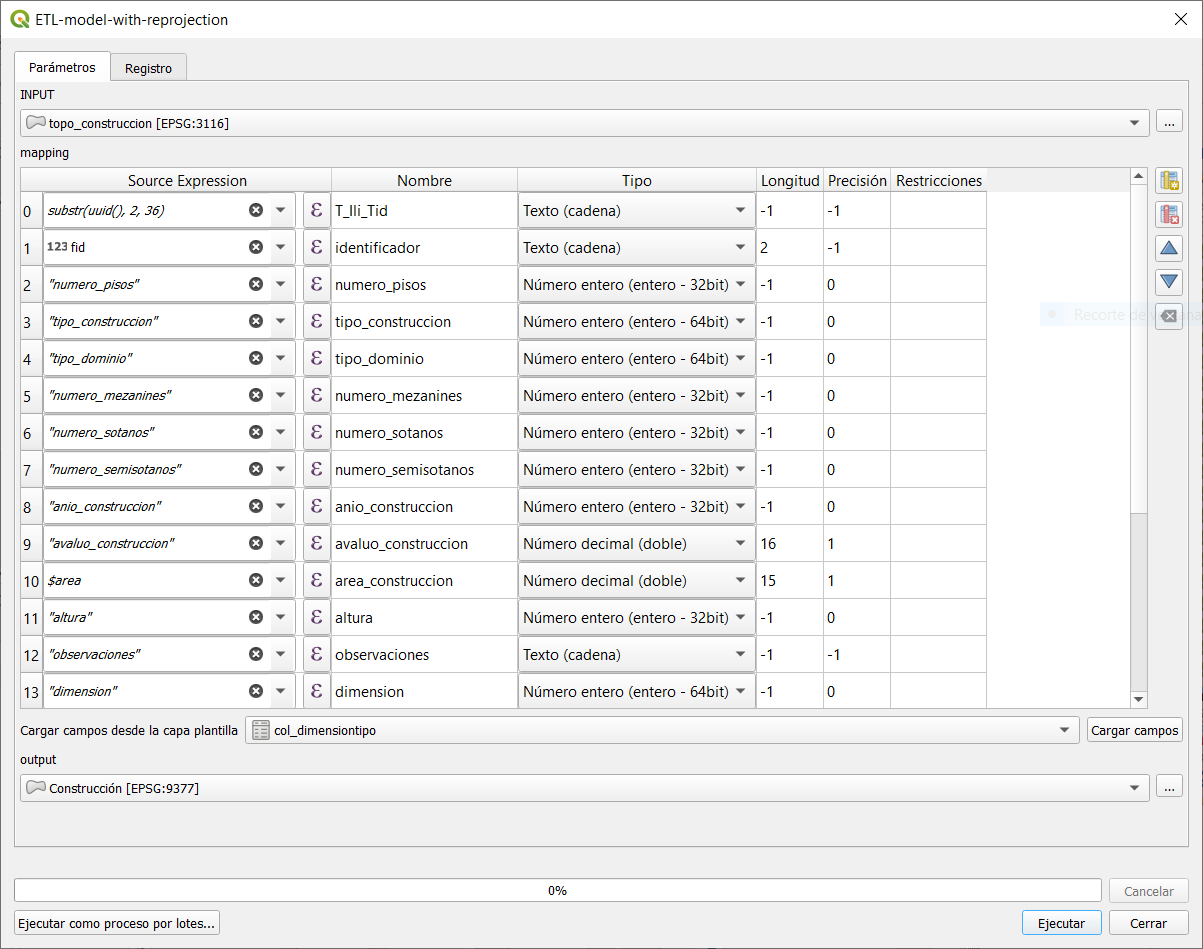
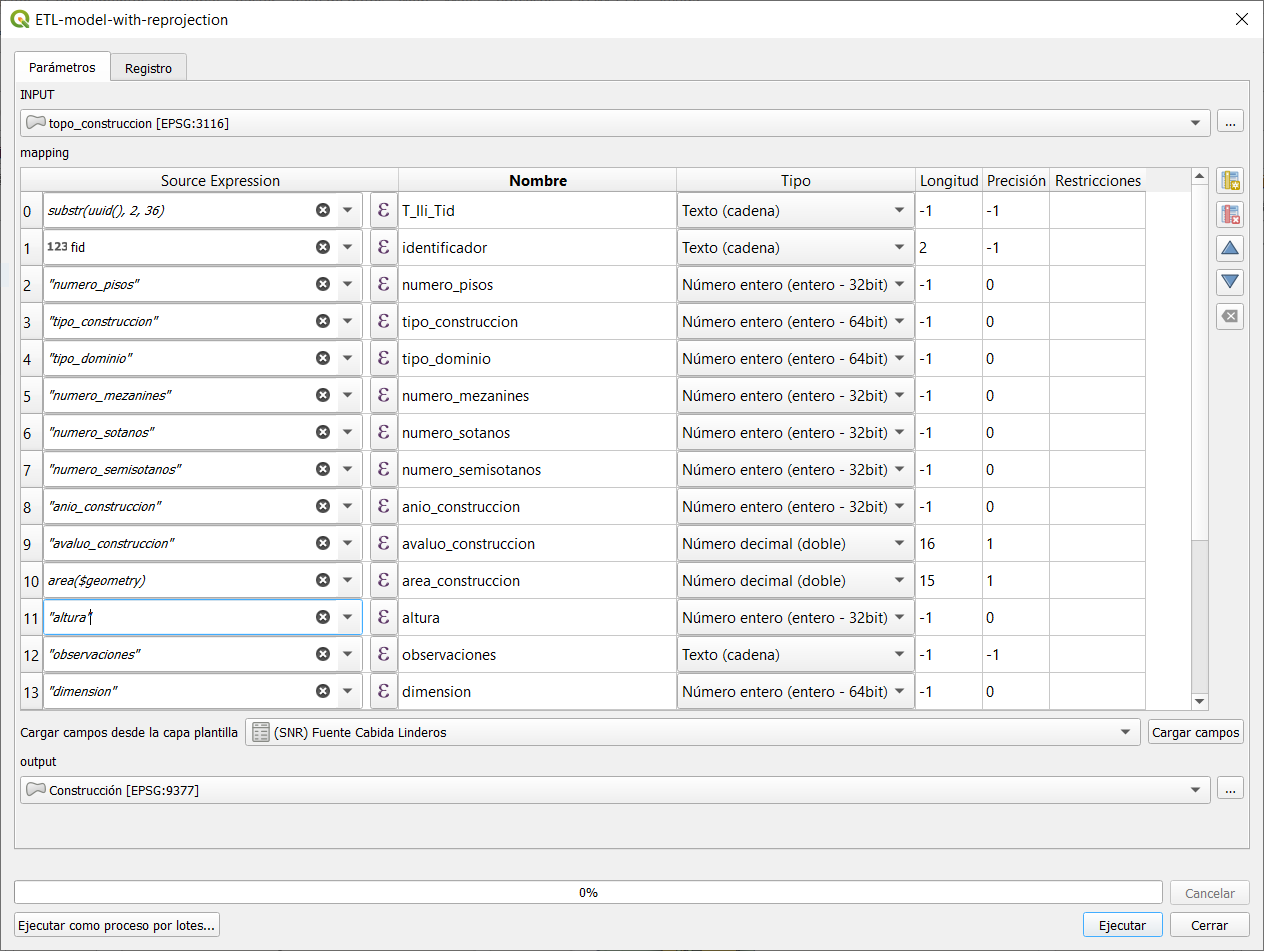
Correcciones solicitadas para mejorar la comprensión del desarrollo del tutorial

diff --git a/source/tutorial/captura_y_estructuracion_de_datos.md b/source/tutorial/captura_y_estructuracion_de_datos.md
@@ -11,7 +11,7 @@ La primera parte de tutorial corresponde a la descarga e importación de datos e
 
 ### Paso 1: Conexión a la base de datos 
 
-Para empezar, se debe definir la conexión a la base de datos. Para realizar este proceso, dirígete al panel "**Navegador**" ubicado a la izquierda de la interfaz de QGIS, en el árbol que se despliega ubica la sección **Geopackage**, haz clic derecho sobre esta sección y selecciona la opción de **Conexión nueva**. Una vez se despliega el panel de navegación, deberás ubicar la base de datos **taller_asistente.gpkg** (disponible en los datos del tutorial) y dar clic en el botón **Abrir** para configurar la conexión a la base de datos.
+Para empezar, se debe definir la conexión a la base de datos. Para realizar este proceso, dirígete al panel "**Navegador**" ubicado a la izquierda de la interfaz de QGIS, en el árbol que se despliega ubica la sección **GeoPackage**, haz clic derecho sobre esta sección y selecciona la opción de **Conexión nueva**. Una vez se despliega el panel de navegación, deberás ubicar la base de datos **taller_asistente.gpkg** (disponible en los datos del tutorial) y dar clic en el botón **Abrir** para configurar la conexión a la base de datos.
 
 <div class="note">
 <p class="admonition-title">IMPORTANTE</p>
@@ -158,7 +158,7 @@ Al realizar el paso 2 se desplegará un cuadro de diálogo donde se deberá sele
 
 #### Paso 4: Mapeo de campos punto levantamiento  
 
-Se desplegará un cuadro de diálogo para el mapeo de campos de la información. Se recomienda tener en cuenta el [paso 4](#paso-4-dialogo-del-mapeo-de-campos-para-punto-lindero) de la sección de punto de lindero. Para este caso, debemos asignar los valores de la siguiente manera:
+Se recomienda tener en cuenta el [paso 5](#paso-5-definicion-del-mapeo-de-campos-para-punto-lindero) de la sección de punto de lindero. Para este caso, debemos asignar los valores de la siguiente manera:
 
 | Atributo                 | Expresión                                                    |
 | ------------------------ | ------------------------------------------------------------ |
@@ -211,7 +211,7 @@ Al realizar el paso 2 se desplegará un cuadro de diálogo donde se deberá sele
 
 #### Paso 5: Mapeo de campos punto control  
 
-Se desplegará un cuadro de diálogo para el mapeo de campos de la información. Se recomienda tener en cuenta el [paso 4](#paso-4-dialogo-del-mapeo-de-campos-para-punto-lindero) de la sección de punto de lindero. Para este caso, debes asignar las siguientes expresiones:
+Se recomienda tener en cuenta el [paso 5](#paso-5-definicion-del-mapeo-de-campos-para-punto-lindero) de la sección de punto de lindero. Para este caso, debemos asignar los valores de la siguiente manera:
 
 | Atributo               | Expresión                                                    |
 | ---------------------- | ------------------------------------------------------------ |
@@ -251,7 +251,7 @@ En la barra de herramientas del Asistente LADM-COL, presiona el botón ``Crear o
 
 #### Paso 3: Mapeo de campos lindero 
 
-Se desplegará un cuadro de diálogo para el mapeo de campos de la información. Se recomienda tener en cuenta los pasos desarrollados en el [paso 4](#paso-4-dialogo-del-mapeo-de-campos-para-punto-lindero) de la sección de punto de lindero. Para este caso, debemos asignar la siguiente expresión:
+Se recomienda tener en cuenta el [paso 5](#paso-5-definicion-del-mapeo-de-campos-para-punto-lindero) de la sección de punto de lindero. Para este caso, debemos asignar los valores de la siguiente manera:
 
 | Atributo                 | Expresión                                                    |
 | ------------------------ | ------------------------------------------------------------ |
@@ -319,19 +319,18 @@ Dirigete al botón `Crear objetos de Levantamiento` (ubicado en la barra de herr
 Se desplegará una ventana en la cual se te consulta *¿Cómo te gustaría crear terrenos?*, allí cuentas con dos opciones: *Seleccionando linderos existentes* ó *Desde otra capa de QGIS (definiendo un mapeo de campos)*.
 
 En este caso, se procede a elegir la opción **Seleccionando linderos existentes** y luego das clic en el botón **Siguiente**. En el cuadro de diálogo que se despliega, encuentras tres opciones que corresponden con: 
-<ol>
-  <li><b>1.</b> Seleccionar lindero(s) en el mapa.</li>
-  <li><b>2.</b> Seleccionar lindero(s) con base en una expresión.</li>
-  <li><b>3.</b> Seleccionar todos los linderos.</p></li>
-</ol>
 
-Posteriormente, das clic en la opción *"Seleccionar todos los linderos"* y luego en el botón `Finalizar`.
+1. Seleccionar lindero(s) en el mapa.
+2. Seleccionar lindero(s) con base en una expresión.
+3. Seleccionar todos los linderos.
+
+Posteriormente, das clic en el boton `Seleccionar todos los linderos` y luego en el botón `Finalizar`.
 
 <a class="" data-lightbox="Paso 2: Selección de linderos" href="../_static/tutorial/captura_y_estructura_de_datos/cap5undespaciales2.gif" title="Paso 2: Selección de linderos" data-title="Paso 2: Selección de linderos"><img src="../_static/tutorial/captura_y_estructura_de_datos/cap5undespaciales2.gif" class="align-center" width="800px" alt="Paso 2: Selección de linderos"/></a>
 
-#### Paso 3: Cálculo área del terreno
+#### Paso 3: Cálculo del área del terreno
 
-Una vez que los terrenos han sido creados, es necesario calcular o en su defecto actualizar el área del terreno. Para ello, debes dar clic en el botón `Abrir tabla de atributos` ubicado en la parte superior de la barra de tareas. Posteriormente, elijes en el menú desplegable del lado izquierdo el atributo **Área de terreno [m2]** y das clic en el botón *Generar expresión* ![Botón generar expresion](../_static/tutorial/captura_y_estructura_de_datos/ICOdialogodeexpressiones.png), de esta forma se despliega la ventana de *"Diálogo de expresiones"*, en la cual debes emplear la función *\$area*. Luego, basta con dar clic en el botón `Aceptar`. 
+Una vez que los terrenos han sido creados, es necesario calcular o en su defecto actualizar el área del terreno. Para ello, debes dar clic en el botón `Abrir tabla de atributos` ubicado en la barra de herramientas. Posteriormente, elijes en el menú desplegable del lado izquierdo el atributo **Área de terreno [m2]** y das clic en el botón *Generar expresión* ![Botón generar expresion](../_static/tutorial/captura_y_estructura_de_datos/ICOdialogodeexpressiones.png), de esta forma se despliega la ventana de *"Diálogo de expresiones"*, en la cual debes emplear la función *area($geometry)*. Luego, basta con dar clic en el botón `Aceptar`. 
 
 Finalmente, al cerrar la ventana emergente debes dar clic en el botón **Actualizar todo**, de inmediato podrás ver que en la columna **Área de terreno** se asignaron los valores de área correspondientes. Para guardar dichos cambios presiona el botón *Guardar edición* ![Botón guardar edición](../_static/tutorial/captura_y_estructura_de_datos/ICOguardarcambios.png), luego, puedes cerrar la ventana.
 
@@ -341,13 +340,13 @@ Finalmente, al cerrar la ventana emergente debes dar clic en el botón **Actuali
 
 #### Paso 1: Creación de la relación
 
-El diligenciamiento de esta relación se realiza con la herramienta ``Llenar más CCL y menos`` ubicada en la barra de herramientas. Al hacer clic en este botón, emergerá un cuadro de diálogo preguntandóte si deseas ejecutar esta acción para todos los terrenos identificados en la base de datos. En este caso, se procede a dar clic en el botón ``Sí``.
+El diligenciamiento de esta relación se realiza con la herramienta ``Llenar más CCL y menos`` ubicada en la barra de herramientas. Al hacer clic en este botón, emergerá un cuadro de diálogo en el que se te pregunta si deseas ejecutar esta acción para todos los terrenos identificados en la base de datos. En este caso, se procede a dar clic en el botón ``Sí``.
 
 <a class="" data-lightbox="Paso 1" href="../_static/tutorial/captura_y_estructura_de_datos/cap5undespaciales8.gif" title="Paso 1" data-title="Paso 1"><img src="../_static/tutorial/captura_y_estructura_de_datos/cap5undespaciales8.gif" class="align-center" width="800px" alt="Paso 1"/></a>
 
 #### Paso 2: Verificación de la relación
 
-Para verificar el estado de las relaciones creadas previamente, basta con abrir la tabla de atributos de la tabla **Col_masccl**, y en la columna *col_mas* corroborar si los campos están diligenciados correctamente. 
+Para verificar el estado de las relaciones creadas previamente, basta con abrir la tabla de atributos de la tabla **col_masccl**, y en la columna *ccl_mas* corroborar si los campos están diligenciados correctamente. 
 
 <a class="" data-lightbox="Resultado" href="../_static/tutorial/captura_y_estructura_de_datos/cap5undespaciales10.gif" title="Resultado" data-title="Resultado"><img src="../_static/tutorial/captura_y_estructura_de_datos/cap5undespaciales10.gif" class="align-center" width="800px" alt="Resultado"/></a>
 
@@ -355,11 +354,11 @@ Para verificar el estado de las relaciones creadas previamente, basta con abrir 
 
 #### Paso 1: Cargar insumo construcción
 
-En primera medida, debes cargar a tu espacio de trabajo la capa **topo_construcciones**, para esto, debes dirigirte al **Navegador**, seleccionar **geopackage -> taller_asistente.gpkg** y arrastrar la capa **topo_construcciones** a la interfaz, para que esta seá cargada. 
+En primera medida, debes cargar a tu espacio de trabajo la capa **topo_construcciones**, para esto, debes dirigirte al **Navegador**, seleccionar **GeoPackage -> taller_asistente.gpkg** y arrastrar la capa **topo_construcciones** al mapa, para que ésta sea cargada. 
 
 <a class="" data-lightbox="Paso 1: Cargar insumo construcción" href="../_static/tutorial/captura_y_estructura_de_datos/cap5undespaciales11a.gif  " title="Paso 1: Cargar insumo construcción" data-title="Paso 1: Cargar insumo construcción"><img src="../_static/tutorial/captura_y_estructura_de_datos/cap5undespaciales11a.gif" class="align-center" width="800px" alt="Paso 1: Cargar insumo construcción"/></a>
 
-#### Paso 2: Creación de construcción
+#### Paso 2: Creación de las construcciones
 
 Al desplegar el menú del botón `Crear objetos de Levantamiento` (ubicado en la barra de herramientas) debes seleccionar la opción **Crear Construcción**. Esta acción abrirá una ventana en la cual se te consulta *¿Cómo te gustaría crear construcciones?*, para este caso selecciona la opcion *Desde otra capa de QGIS (definiendo un mapeo de campos)*.
 
@@ -369,27 +368,27 @@ En este caso, harás uso de la información registrada en la capa **topo_constru
 
 #### Paso 3: Mapeo de campos
 
-De inmediato, se desplegará la ventana de mapeo de campos, en la cual debes realizar las modificaciones correspondientes hasta obtener un muestreo de campos como el de la siguiente imagen:
+De inmediato, se desplegará la ventana de mapeo de campos, en la cual debes realizar las modificaciones correspondientes hasta obtener un mapeo de campos como el de la siguiente imagen:
 
 <a class="" data-lightbox="Paso 3: Mapeo de campos" href="../_static/tutorial/captura_y_estructura_de_datos/cap5undespaciales13.png" title="Paso 3: Mapeo de campos" data-title="Paso 3: Mapeo de campos"><img src="../_static/tutorial/captura_y_estructura_de_datos/cap5undespaciales13.png" class="align-center" width="800px" alt="Paso 3: Mapeo de campos"/></a> 
 
-Se recomienda tener en cuenta los pasos desarrollados en el [paso 4](#paso-4-mapeo-de-campos-punto-lindero) de la sección de punto de lindero, considerando que:   
+Se recomienda tener en cuenta el [paso 5](#paso-5-definicion-del-mapeo-de-campos-para-punto-lindero) de la sección de punto de lindero. Para este caso, debemos asignar los valores de la siguiente manera:
 
-| Atributo                 | Expresión    |
-| ------------------------ | ------------ |
-| identificador            | $id          |
-| numero_pisos             | num_pisos    |
-| area_construccion        | $area        |
+| Atributo                 | Expresión              |
+| ------------------------ | ---------------------- |
+| identificador            | $id                    |
+| numero_pisos             | num_pisos              |
+| area_construccion        | area($geometry)        |
 
 <div class="warning">
 <p class="admonition-title">ADVERTENCIA</p>
 <p>Para el caso de <b>identificador</b>, se utiliza la expresión <i>$id</i> ya que los datos iniciales no cuentan con información para este campo.</p>
-<p>Para el caso de <b>area_construccion</b>, se utiliza la expresión <i>$area</i> ya que los datos iniciales no cuentan con información para este campo.</p>
+<p>Para el caso de <b>area_construccion</b>, se utiliza la expresión <i>area($geometry)</i> ya que los datos iniciales no cuentan con información para este campo.</p>
 </div>
 
-Después de completar dichas modificaciones, puedes emplear la acción del botón ``Ejecutar``, y verificar el mensaje del proceso, luego, puedes **Cerrar** la ventana.
+Después de completar dichas modificaciones, haz clic en el botón ``Ejecutar``. Cuando el proceso termine, puedes verificar los mensajes de la pestaña Registro y posteriormente cerrar la ventana.
 
-### Unidades De Construcción
+### Unidades de Construcción
 
 #### Paso 1: Identificación de la construcción
 
@@ -397,9 +396,9 @@ Para iniciar con el proceso de crear las unidades de construcción se debe emple
 
 <a class="" data-lightbox="Paso 1: Identificación de la construcción" href="../_static/tutorial/captura_y_estructura_de_datos/cap5undespaciales15.gif" title="Paso 1: Identificación de la construcción" data-title="Paso 1: Identificación de la construcción"><img src="../_static/tutorial/captura_y_estructura_de_datos/cap5undespaciales15.gif" class="align-center" width="800px" alt="Paso 1: Identificación de la construcción"/></a>
 
-#### Paso 2: Creación de unidad de construcción
+#### Paso 2: Creación de unidades de construcción
 
-Después de tener los *t_id* se procede con el proceso de creación de las *Unidades de construcción*, para ello debes dirigirte a **LADM-COL –> Captura Y Estructuración De Datos –> Levantamiento Catastral –> Unidad Espacial –> Crear Unidad De Construcción**
+Después de identificar el t_id de la Construcción, se procede a crear las Unidades de construcción. Para ello debes dirigirte a **LADM-COL –> Captura Y Estructuración De Datos –> Levantamiento Catastral –> Unidad Espacial –> Crear Unidad De Construcción**
 
 De inmediato se desplegará un cuadro de diálogo, en el cual se te consulta como generar la unidad de construcción, puedes elegir entre cargar una capa vectorial o digitalizar el contenido. En este caso, se empleará la opción de digitalización, posteriormente das clic en el botón `Crear`.
 
@@ -415,33 +414,33 @@ Esta acción desplegará un formulario, el cual tiene casillas resaltadas, las c
 
 #### Paso 4: Resultado de la unidad de construcción
 
-Finalmente, al cerrar el cuadro de diálogo, podrás visualizar un sólido en 2.5D que representa la construcción:
+Finalmente, al cerrar el cuadro de diálogo, podrás visualizar un sólido en 2.5D que representa la unidad de construcción:
 
 <a class="" data-lightbox="Paso 4: Resultado de la unidad de construcción" href="../_static/tutorial/captura_y_estructura_de_datos/cap5undespaciales22.png" title="Paso 4: Resultado de la unidad de construcción" data-title="Paso 4: Resultado de la unidad de construcción"><img src="../_static/tutorial/captura_y_estructura_de_datos/cap5undespaciales22.png" class="align-center" width="800px" alt="Paso 4: Resultado de la unidad de construcción"/></a>
 
-### Servidumbre de paso
+### Servidumbre de transito
 
-#### Paso 1: Creación de servidumbre de paso
+#### Paso 1: Creación de Servidumbre de transito
 
-Para crear una *Servidumbre de paso*, debes dirigirte a la opción **Crear objetos de levantamiento –> Crear Servidumbre de Paso** en la barra de herramientas.
+Para crear una *Servidumbre de transito*, debes dirigirte a la opción **Crear objetos de levantamiento –> Crear Servidumbre de transito** en la barra de herramientas.
 
 De inmediato, se desplegará un cuadro de diálogo que habilitará tres (3) opciones: *Digitalizando el eje*, *Digitalizando polígono* y *Desde otra capa de QGIS*. Para este caso, selecciona la segunda opción, posteriormente das clic en el botón `Crear`.
 
-<a class="" data-lightbox="Paso 1: Creación de servidumbre de paso" href="../_static/tutorial/captura_y_estructura_de_datos/cap5undespaciales17.gif" title="Paso 1: Creación de servidumbre de paso" data-title="Paso 1: Creación de servidumbre de paso"><img src="../_static/tutorial/captura_y_estructura_de_datos/cap5undespaciales23.gif" class="align-center" width="800px" alt="Paso 1: Creación de servidumbre de paso"/></a>
+<a class="" data-lightbox="Paso 1: Creación de Servidumbre de transito" href="../_static/tutorial/captura_y_estructura_de_datos/cap5undespaciales17.gif" title="Paso 1: Creación de Servidumbre de transito" data-title="Paso 1: Creación de Servidumbre de transito"><img src="../_static/tutorial/captura_y_estructura_de_datos/cap5undespaciales17.gif" class="align-center" width="800px" alt="Paso 1: Creación de Servidumbre de transito"/></a>
 
-#### Paso 2: Formulario de la servidumbre de paso
+#### Paso 2: Formulario de la Servidumbre de transito
 
-Al cerrar la ventana anterior, se habilitará la opción para digitalizar la *Servidumbre de paso* junto con la herramienta de *Autoensamblado*. Grafica el polígono de tu interés y da clic derecho al finalizar la digitalización.
+Al cerrar la ventana anterior, se habilitará la opción para digitalizar la *Servidumbre de transito* junto con la herramienta de *Autoensamblado*. Grafica el polígono de tu interés y da clic derecho al finalizar la digitalización.
 
-Una vez que termines la digitalización del polígono se desplegará un formulario, que tiene algunas casillas resaltadas, las cuales indican que deben diligenciarse de forma obligatoria.
+Una vez que termines la digitalización del polígono, se desplegará un formulario que tiene algunas casillas resaltadas, las cuales deben diligenciarse de forma obligatoria.
 
-<a class="" data-lightbox="Paso 2: Formulario de la servidumbre de paso" href="../_static/tutorial/captura_y_estructura_de_datos/cap5undespaciales18.gif" title="Paso 2: Formulario de la servidumbre de paso" data-title="Paso 2: Formulario de la servidumbre de paso"><img src="../_static/tutorial/captura_y_estructura_de_datos/cap5undespaciales24.gif" class="align-center" width="800px" alt="Paso 2: Formulario de la servidumbre de paso"/></a>
+<a class="" data-lightbox="Paso 2: Formulario de la Servidumbre de transito" href="../_static/tutorial/captura_y_estructura_de_datos/cap5undespaciales18.gif" title="Paso 2: Formulario de la Servidumbre de transito" data-title="Paso 2: Formulario de la Servidumbre de transito"><img src="../_static/tutorial/captura_y_estructura_de_datos/cap5undespaciales18.gif" class="align-center" width="800px" alt="Paso 2: Formulario de la Servidumbre de transito"/></a>
 
-#### Paso 3: Resultado de la servidumbre de paso
+#### Paso 3: Resultado de la Servidumbre de transito
 
-Finalmente, al cerrar el cuadro de diálogo podrás visualizar un polígono que representa la servidumbre de paso.
+Finalmente, al cerrar el cuadro de diálogo podrás visualizar un polígono que representa la Servidumbre de transito.
 
-<a class="" data-lightbox="Paso 3: Resultado de la servidumbre de paso" href="../_static/tutorial/captura_y_estructura_de_datos/cap5undespaciales22.png" title="Paso 3: Resultado de la servidumbre de paso" data-title="Paso 3: Resultado de la servidumbre de paso"><img src="../_static/tutorial/captura_y_estructura_de_datos/cap5undespaciales25.png" class="align-center" width="800px" alt="Paso 3: Resultado de la servidumbre de paso"/></a>
+<a class="" data-lightbox="Paso 3: Resultado de la Servidumbre de transito" href="../_static/tutorial/captura_y_estructura_de_datos/cap5undespaciales22.png" title="Paso 3: Resultado de la Servidumbre de transito" data-title="Paso 3: Resultado de la Servidumbre de transito"><img src="../_static/tutorial/captura_y_estructura_de_datos/cap5undespaciales22.png" class="align-center" width="800px" alt="Paso 3: Resultado de la Servidumbre de transito"/></a>
 
 ## Unidad Básica Administrativa
 
